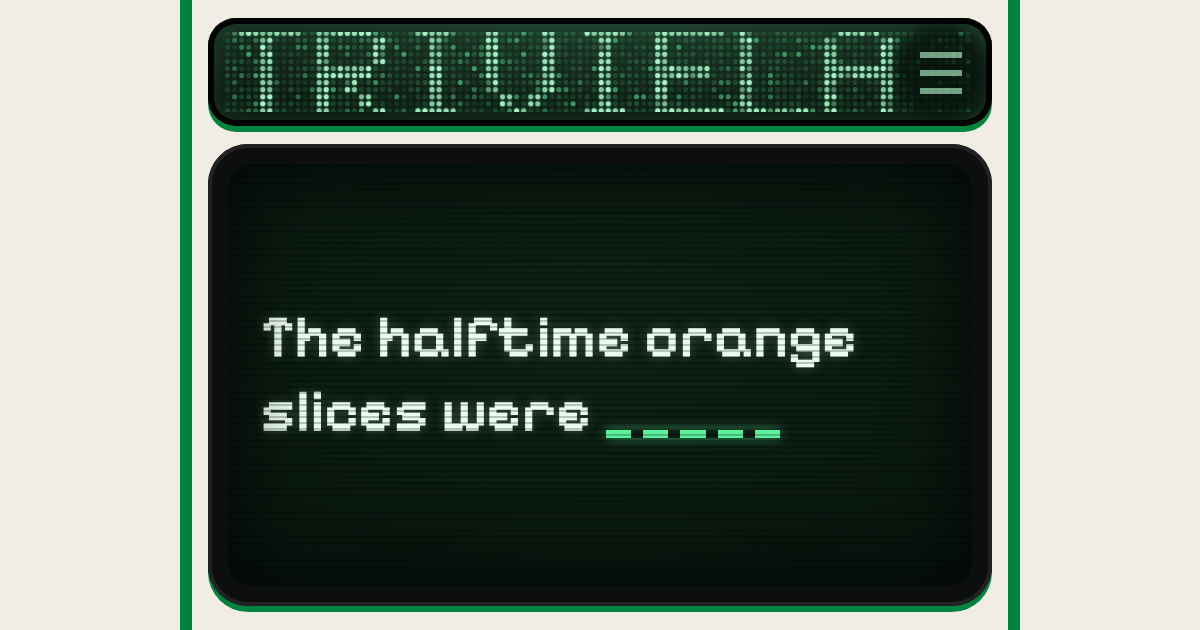
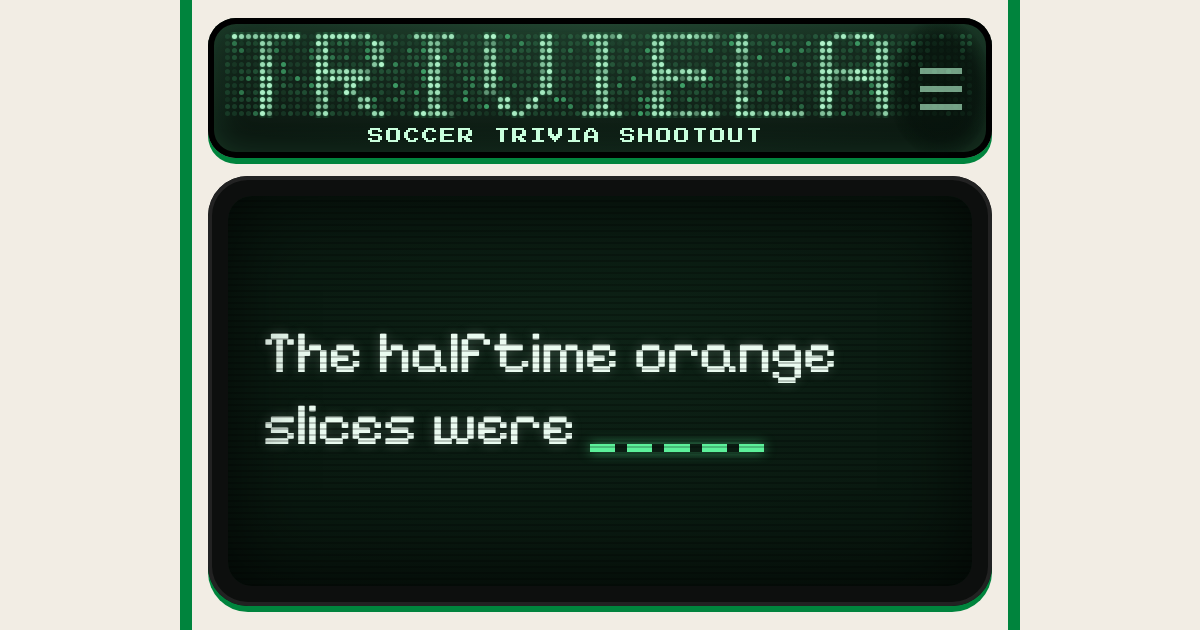
Sharp font on the beta: link preview, startup hook, brief
Claude-Session: https://claude.ai/code/session_014c87SZPcUX9dUDfVKhzS8s

Changed region(s): [[0.1542, 0.0302, 0.8325, 0.3317], [0.2158, 0.4825, 0.7092, 0.7238]]

diff --git a/CLAUDE.md b/CLAUDE.md
@@ -50,7 +50,7 @@ python3 tools/lifecycle.py           # saving, resuming, locking, the share text
 - `functions/api/mark.js` and `wrangler.toml`: the beta’s flag and lock service on Cloudflare Pages, with its database `triviela-beta` (D1, id 28b9326e-e80a-433a-ab24-64c0c11712fe). While `wrangler.toml` exists, Pages takes its settings from the file, not the dashboard.
 - `docs/`: what GitHub Pages serves (index.html, icons, manifest, `sw.js` for offline play, `og.png` for link previews). Don't hand-edit docs/index.html. Rebuild it. Rerun `python3 tools/og.py` if the look or the icons change.
 - Preview links: Cloudflare Pages (project blank-space-baby, output `docs`, no build command) deploys every pushed branch to `https://<branch>.blank-space-baby.pages.dev` within a minute or two. Give Morg that link with every branch so he can play it on his phone before merging. `main` also deploys to https://blank-space-baby.pages.dev, but GitHub Pages stays the official link.
-- Cloud sessions run `.claude/hooks/session-start.sh` at startup: it installs Playwright for Python (1.56.0, matching the preinstalled Chromium) and the game's two fonts, so screenshots are right from the first minute.
+- Cloud sessions run `.claude/hooks/session-start.sh` at startup: it installs Playwright for Python (1.56.0, matching the preinstalled Chromium). The fonts come with the game (`docs/fonts/`), and every test tool serves them through `tools/docsroute.py`, so screenshots are right from the first minute. A new tool that renders the page must route through it too.
 - Test in headless Chromium at device scale 3 (the iPhone is 3×, so 2× hides jaggies) (Playwright is preinstalled in Claude's cloud workspace) at 402×744 (his phone in the Claude viewer), 375×667 and 320×568. Every screen must fit with no scrolling. Zoom in on punctuation, line ends and icon pixels before calling anything done, not just the whole screen at a glance.
 
 ## Palette (locked Oct 15, 2026, shared with Carpool HQ)
@@ -156,6 +156,7 @@ It replaces “one miss ends the day”, the goals and the goal lamps. Where the
 - **Fresh cards for testing** (Morg, Oct 19, 2026: he’d seen the first boards too often): before #1 the draw quietly deals `PREROLL` days (now 40) that nobody plays, so the cards from the early boards go to the back of their lines. Of the 105 cards on demo boards #1 to #7, only 2 had been on the old ones (rules and slang cards, whose small pools repeat sooner). Raise `PREROLL` for another fresh run, and decide at launch whether to keep it. The save is `v: 3`, so a board in progress is dealt again.
 - **Near-miss numbers** (Morg, Oct 19, 2026: borrowed wrong numbers were wildly off): a card whose answer is a plain number gets two made-up near misses (`near2`) instead of other cards’ numbers. A count up to 12 moves by 1 to 3, a bigger one by 10 to 35 percent at the answer’s own roundness, a year by 1 to 10 (by 4 or 8 for a World Cup, Euro or Olympics), never past this year unless the answer is, and a future year stays future. Each lands above or below at random, so the answer isn’t always the middle one, and a number already in the sentence or on the tile is never used. A number right after a hedge (more than, about, nearly, up to) keeps the borrowed numbers. A near miss can’t be a second right answer when the fact is exact, which every number card was on Oct 19, so a new number card must be exact or hedge. `build/vetting/WATCH.md` lists the number cards whose count grows at a coming event (a title, an award, a new Laws edition): after each one, send them to the fact checker.
 - **Sharp text, stage 1** (Morg ticked every fix from the text audit, Oct 19, 2026: `research/text-audit-2026-10-19.md` has the findings and the three-stage plan). Press Start 2P is 8 font pixels to the em, so it is sharp only at a whole number of device pixels per font pixel: every Press Start 2P size is `round(nearest, X, var(--ps))`, where `--ps` is 4 px (2× and 1×) or 8/3 px (3×). Digits (`.num`) round from 0.8em the same way, and the score’s digits stay the slash’s height. `font-synthesis: none` stops the fake bold that smeared every Press Start 2P label (the body is weight 600 and the font has only 400). Two-line hooks, meaning lines and the slogan use `text-wrap: balance`. Yellow and red tiles have 14 px side padding, so the hook clears the corner card. The menu key says Start over (its pop-up still asks “Start over from #1?”). The subheading keeps one line, stepping down to 8 px on narrow phones. The sign’s dot pitch snaps to whole device pixels. Still to come: stage 2, a cleaned copy of Pixelify Sans on its own pixel grid (Google’s copy sits slightly off it, so it is never quite sharp), self-hosted, then stage 3, the editor shortening the hooks that don’t fit at the new sizes, and hooks no longer shrinking.
+- **Sharp text, stage 2** (Morg’s yes, Oct 19, 2026): the game carries its own fonts, no Google Fonts. Triviela Pixel is Pixelify Sans redrawn on its own pixel grid (11 to the em, every pixel whole, punctuation and accents redrawn on whole pixels, the j given a dot, no kerning or ligatures), built by `build/font/pixelfont.py`. Triviela Arcade is Press Start 2P, subset and renamed. Both are in `docs/fonts/` with their licenses and `FONTLOG.txt` (the SIL Open Font License lets us change them if we rename them), preloaded in `build/head.html` and cached by `docs/sw.js` (bsb-v4) for offline play. Every Triviela Pixel size is `round(nearest, X, var(--px))` (11/dpr px), with line heights in whole font pixels. The weight is “+2” (Morg loved the font but missed a bit of bold): every stroke is drawn again one and two device pixels to its right (one on 2× screens) as a text-shadow, so letters keep their shapes and widths and nothing reflows. So rules set `--g` (their own glow), never `text-shadow`, and the arcade face sets `--b` (the extra weight) to nothing. A bold that widened every letter a font pixel was tried and dropped: hooks would shrink more. Yellowtail, the old neon script, is gone.
 - **Fonts:** Pixelify draws Z like a 2 and G like a 6, so GOLAZO! is always set in Press Start 2P (`class="num"`), like the digits.
 
 ## The playtest (Morg, Oct 19, 2026: built on `daily`, goes live when he shares the link)
@@ -183,7 +184,7 @@ Morg needs to build and tune, not approve cards one by one. So:
 ## Where things are (Oct 19, 2026, night: Morg paused, and tomorrow picks up here)
 - `main` (live at https://triviela.net and https://fernforager.github.io/blank-space-baby/): the shootout with layout A and the 7-board demo, open to anyone with the link. Tom has the link.
 - `daily` (the beta, https://daily.blank-space-baby.pages.dev) is ahead of `main`, all waiting on Morg’s word to go live: the 3D ball, attract mode on every new board, the slogan, the subheading, the red-dot share (🔴), sharp text stage 1, and the playtest set-up (a real daily with anonymous results, `DEMO_DAYS = 0`). The playtest goes live the morning Morg shares it: set `START` to that date first (see “The playtest”). If he sends it to Tom early, put it live with `START` as that day and reset when the real playtest starts.
-- **Sharp text:** stage 1 is on `daily`. Stage 2 is built and waits on Morg, on its own branch `sharp-font` (preview https://sharp-font.blank-space-baby.pages.dev), not merged into `daily`: Triviela Pixel and Triviela Arcade in `docs/fonts/` (made by `build/font/pixelfont.py`, notes in `docs/fonts/FONTLOG.txt`), preloaded in `build/head.html`, cached by `docs/sw.js` (bsb-v4), and `tools/docsroute.py` so the test tools serve the fonts. Morg loved it but missed a bit of bold, and picked “+2” (Oct 20, 2026): every Triviela Pixel stroke is drawn again one and two device pixels to its right (one on 2× screens) as a text-shadow, so letters keep their shapes and widths, nothing reflows, and the edges stay crisp. Every rule sets `--g` (its own glow), never `text-shadow`, and the arcade face sets `--b` to nothing. A bold that widened every letter a font pixel was tried and dropped: hooks would shrink more. The hub decision `sharpfont` now asks only: on the beta, after he plays it on his iPhone (Chromium is all the cloud can test). The j gets its dot, and the longest hooks shrink a little until stage 3. The before-and-after shots and the hook lists for stage 3 are on the hub and in `research/font/` on that branch. On his yes, `git merge origin/sharp-font` into `daily`, rebuild, run every check, and update this brief (fonts, tools, `og.py`, the session-start hook’s font install). Stage 3 (the editor shortens long hooks, then no more shrinking, and the Lapuente card, ligamx:45) follows.
+- **Sharp text:** stages 1 and 2 are on `daily` (see “Sharp text, stage 2” above). Stage 3 is next: the editor shortens the hooks that don’t fit (the lists are in `research/font/hooklist_*.txt`), then hooks stop shrinking, and the Lapuente card (ligamx:45) gets shorter.
 - **Open design, not decided, nothing built (Morg, Oct 19, 2026 night). Plan before building, and mock it up first:**
   - **Grid parity:** the board, the scoreboard and the share all as the same 5 across by 3 down (white row, yellow row, red row). Today the board is 3 columns of 5.
   - **Fixed spots:** the share shows each card in its board spot, not in the order played, so “row 2, spot 3” is the same card for everyone (“you missed the Bournemouth one”). Morg likes this.
